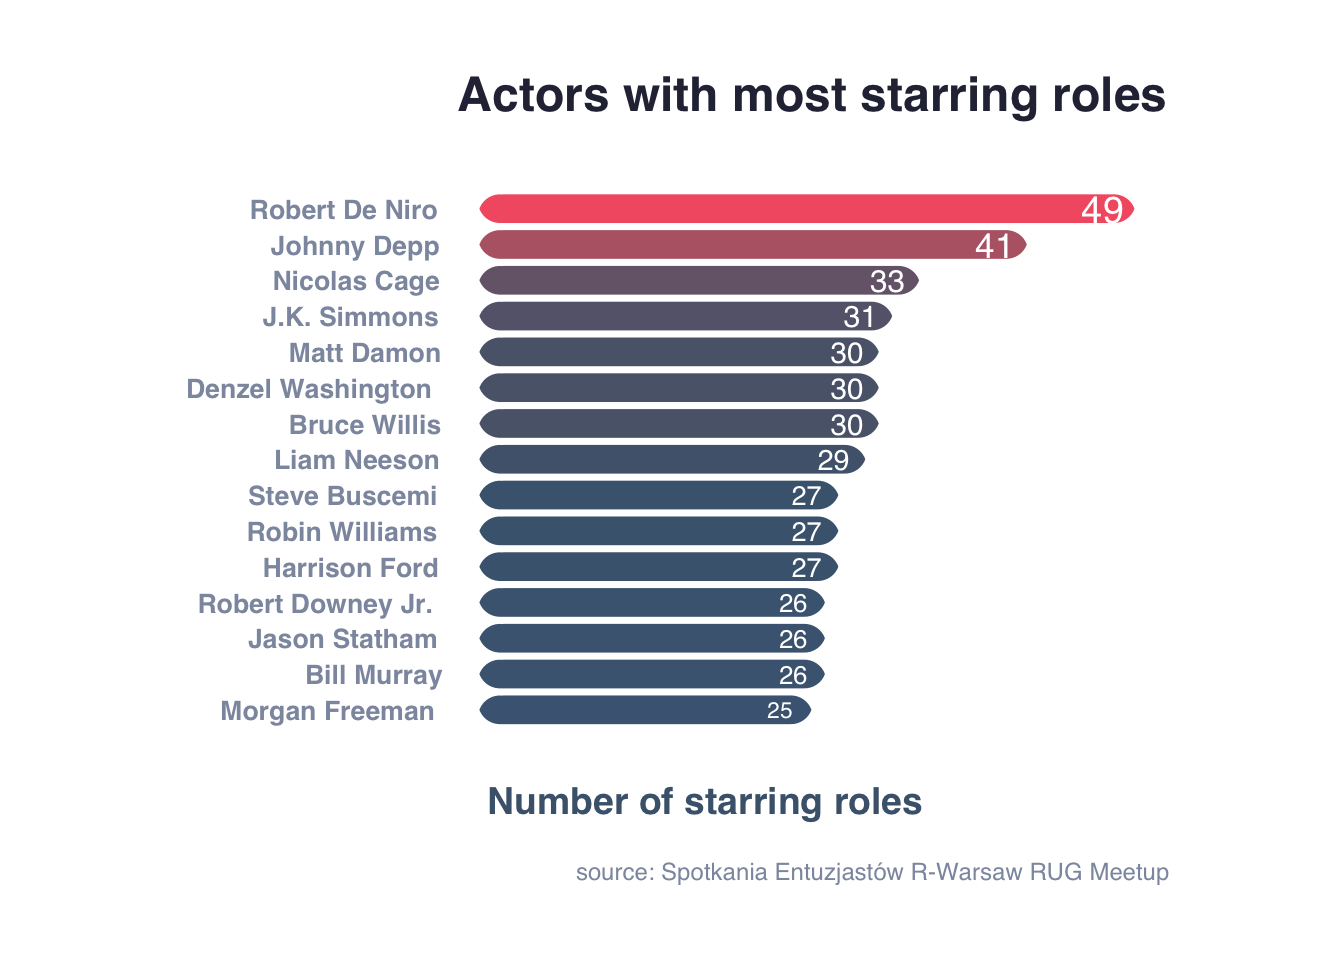
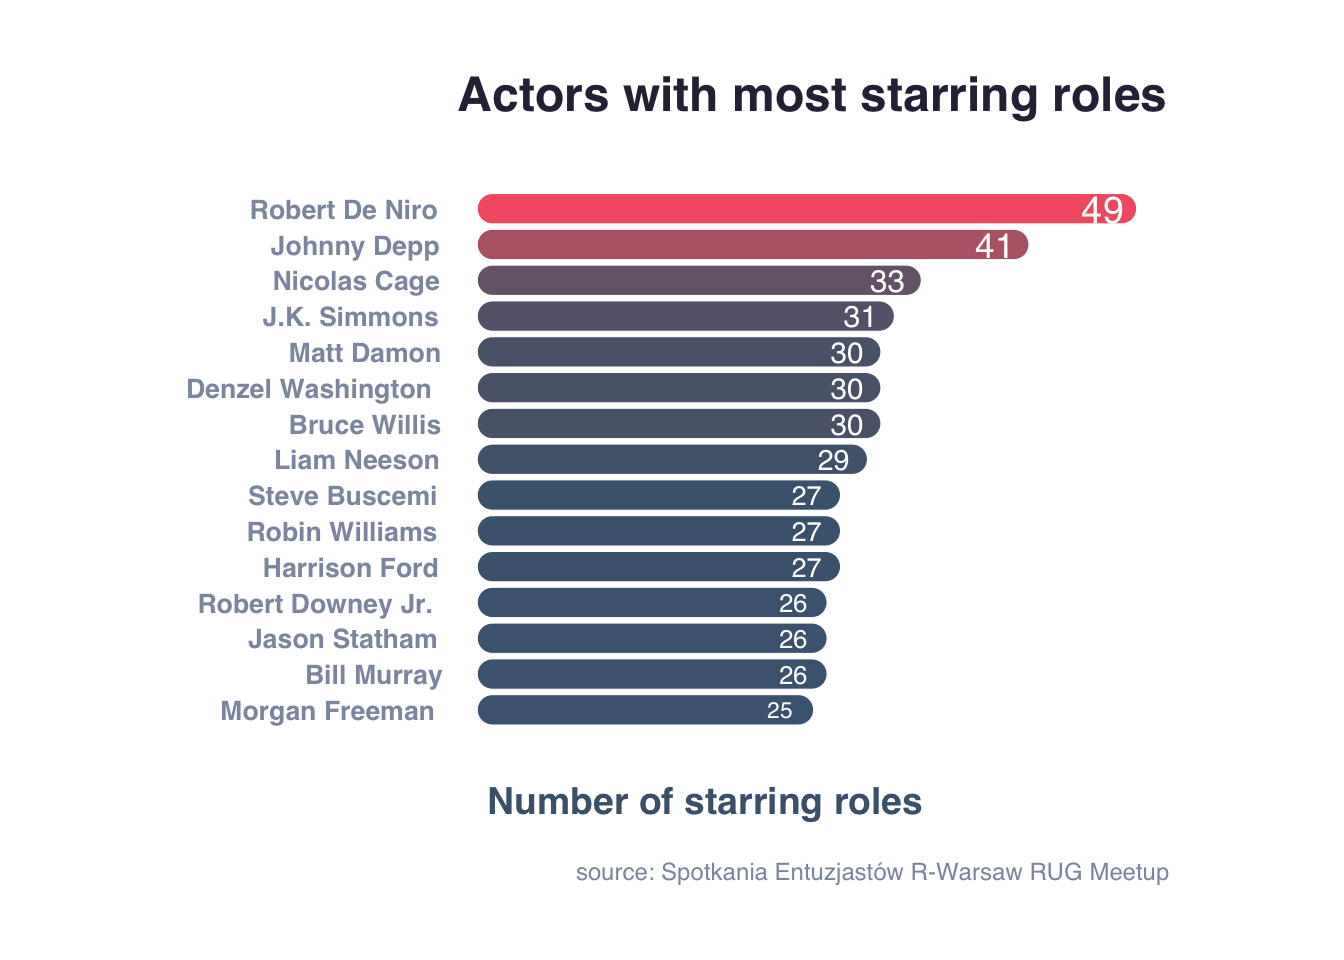
Updated ggchicklet for rounder edges

diff --git a/content/post/2020-01-16-chicklet-plots-with-ggchicket.html b/content/post/2020-01-16-chicklet-plots-with-ggchicket.html
@@ -17,8 +17,8 @@ mathjax: true
 
 
 
-<div id="customises-rough-around-the-dges-barplots-with-ggchicklet-package" class="section level1">
-<h1>Customises rough around the dges barplots with ggchicklet :package:</h1>
+<div id="customise-rough-around-the-edges-barplots-with-the-ggchicklet-package" class="section level1">
+<h1>Customise rough around the edges barplots with the <code>ggchicklet</code> :package:</h1>
 <p><span class="math display">\[\begin{align}
     r  = \frac{1}{n-1} \sum_{i=1}^{n} \frac{(X_i - \bar{X})(Y_i - \bar{Y})}{S_xS_y}
 \end{align}\]</span></p>
@@ -42,9 +42,9 @@ ggplt &lt;- ggplot(movies_actors,aes(x     =  reorder(aktor,ilosc),
                                      y     =  ilosc,
                                      fill  =  ilosc)) +
     
-            geom_chicklet(size   = 0.30,
+            geom_chicklet(size   = 0.20,
                           width   = 0.85,
-                          radius = unit(0.30, &quot;cm&quot;))  +
+                          radius = unit(0.20, &quot;cm&quot;))  +
 
             theme(text              = element_text(           color = &quot;#4A637B&quot;, face = &quot;bold&quot;, family = &#39;Helvetica&#39;)
                   ,plot.caption     = element_text(size =  9, color = &quot;#8d99ae&quot;, face = &quot;plain&quot;                     ) 
@@ -83,5 +83,5 @@ ggplt &lt;- ggplot(movies_actors,aes(x     =  reorder(aktor,ilosc),
 
 
 ggplt</code></pre>
-<p><img src="/post/2020-01-16-chicklet-plots-with-ggchicket_files/figure-html/unnamed-chunk-1-1.png" width="672" style="display: block; margin: auto;" /></p>
+<p><img src="/post/2020-01-16-chicklet-plots-with-ggchicket_files/figure-html/unnamed-chunk-1-1.png" width="100%" style="display: block; margin: auto;" /></p>
 </div>

diff --git a/public/css/custom.css b/public/css/custom.css
@@ -5,6 +5,10 @@
     --color-accent: #f35948;
 }
 
+.hljs-string, .hljs-title, .hljs-name, .hljs-type, .hljs-attribute, .hljs-symbol, .hljs-bullet, .hljs-addition, .hljs-variable, .hljs-template-tag, .hljs-template-variable {
+    color: #f35948;
+}
+
 /* Overrides hard black color with #37474f */
 .title, h1, h2, h3, h4, h5, h6 {
     font-family: -apple-system,BlinkMacSystemFont,Segoe UI,Roboto,Oxygen-Sans,Ubuntu,Cantarell,Open Sans,Helvetica Neue,sans-serif;
@@ -38,3 +42,4 @@ a {
 code, kbd, samp, var {
     font-size: calc(1px + 0.8vw);
 }
+

diff --git a/static/css/custom.css b/static/css/custom.css
@@ -5,6 +5,10 @@
     --color-accent: #f35948;
 }
 
+.hljs-string, .hljs-title, .hljs-name, .hljs-type, .hljs-attribute, .hljs-symbol, .hljs-bullet, .hljs-addition, .hljs-variable, .hljs-template-tag, .hljs-template-variable {
+    color: #f35948;
+}
+
 /* Overrides hard black color with #37474f */
 .title, h1, h2, h3, h4, h5, h6 {
     font-family: -apple-system,BlinkMacSystemFont,Segoe UI,Roboto,Oxygen-Sans,Ubuntu,Cantarell,Open Sans,Helvetica Neue,sans-serif;
@@ -38,3 +42,4 @@ a {
 code, kbd, samp, var {
     font-size: calc(1px + 0.8vw);
 }
+
